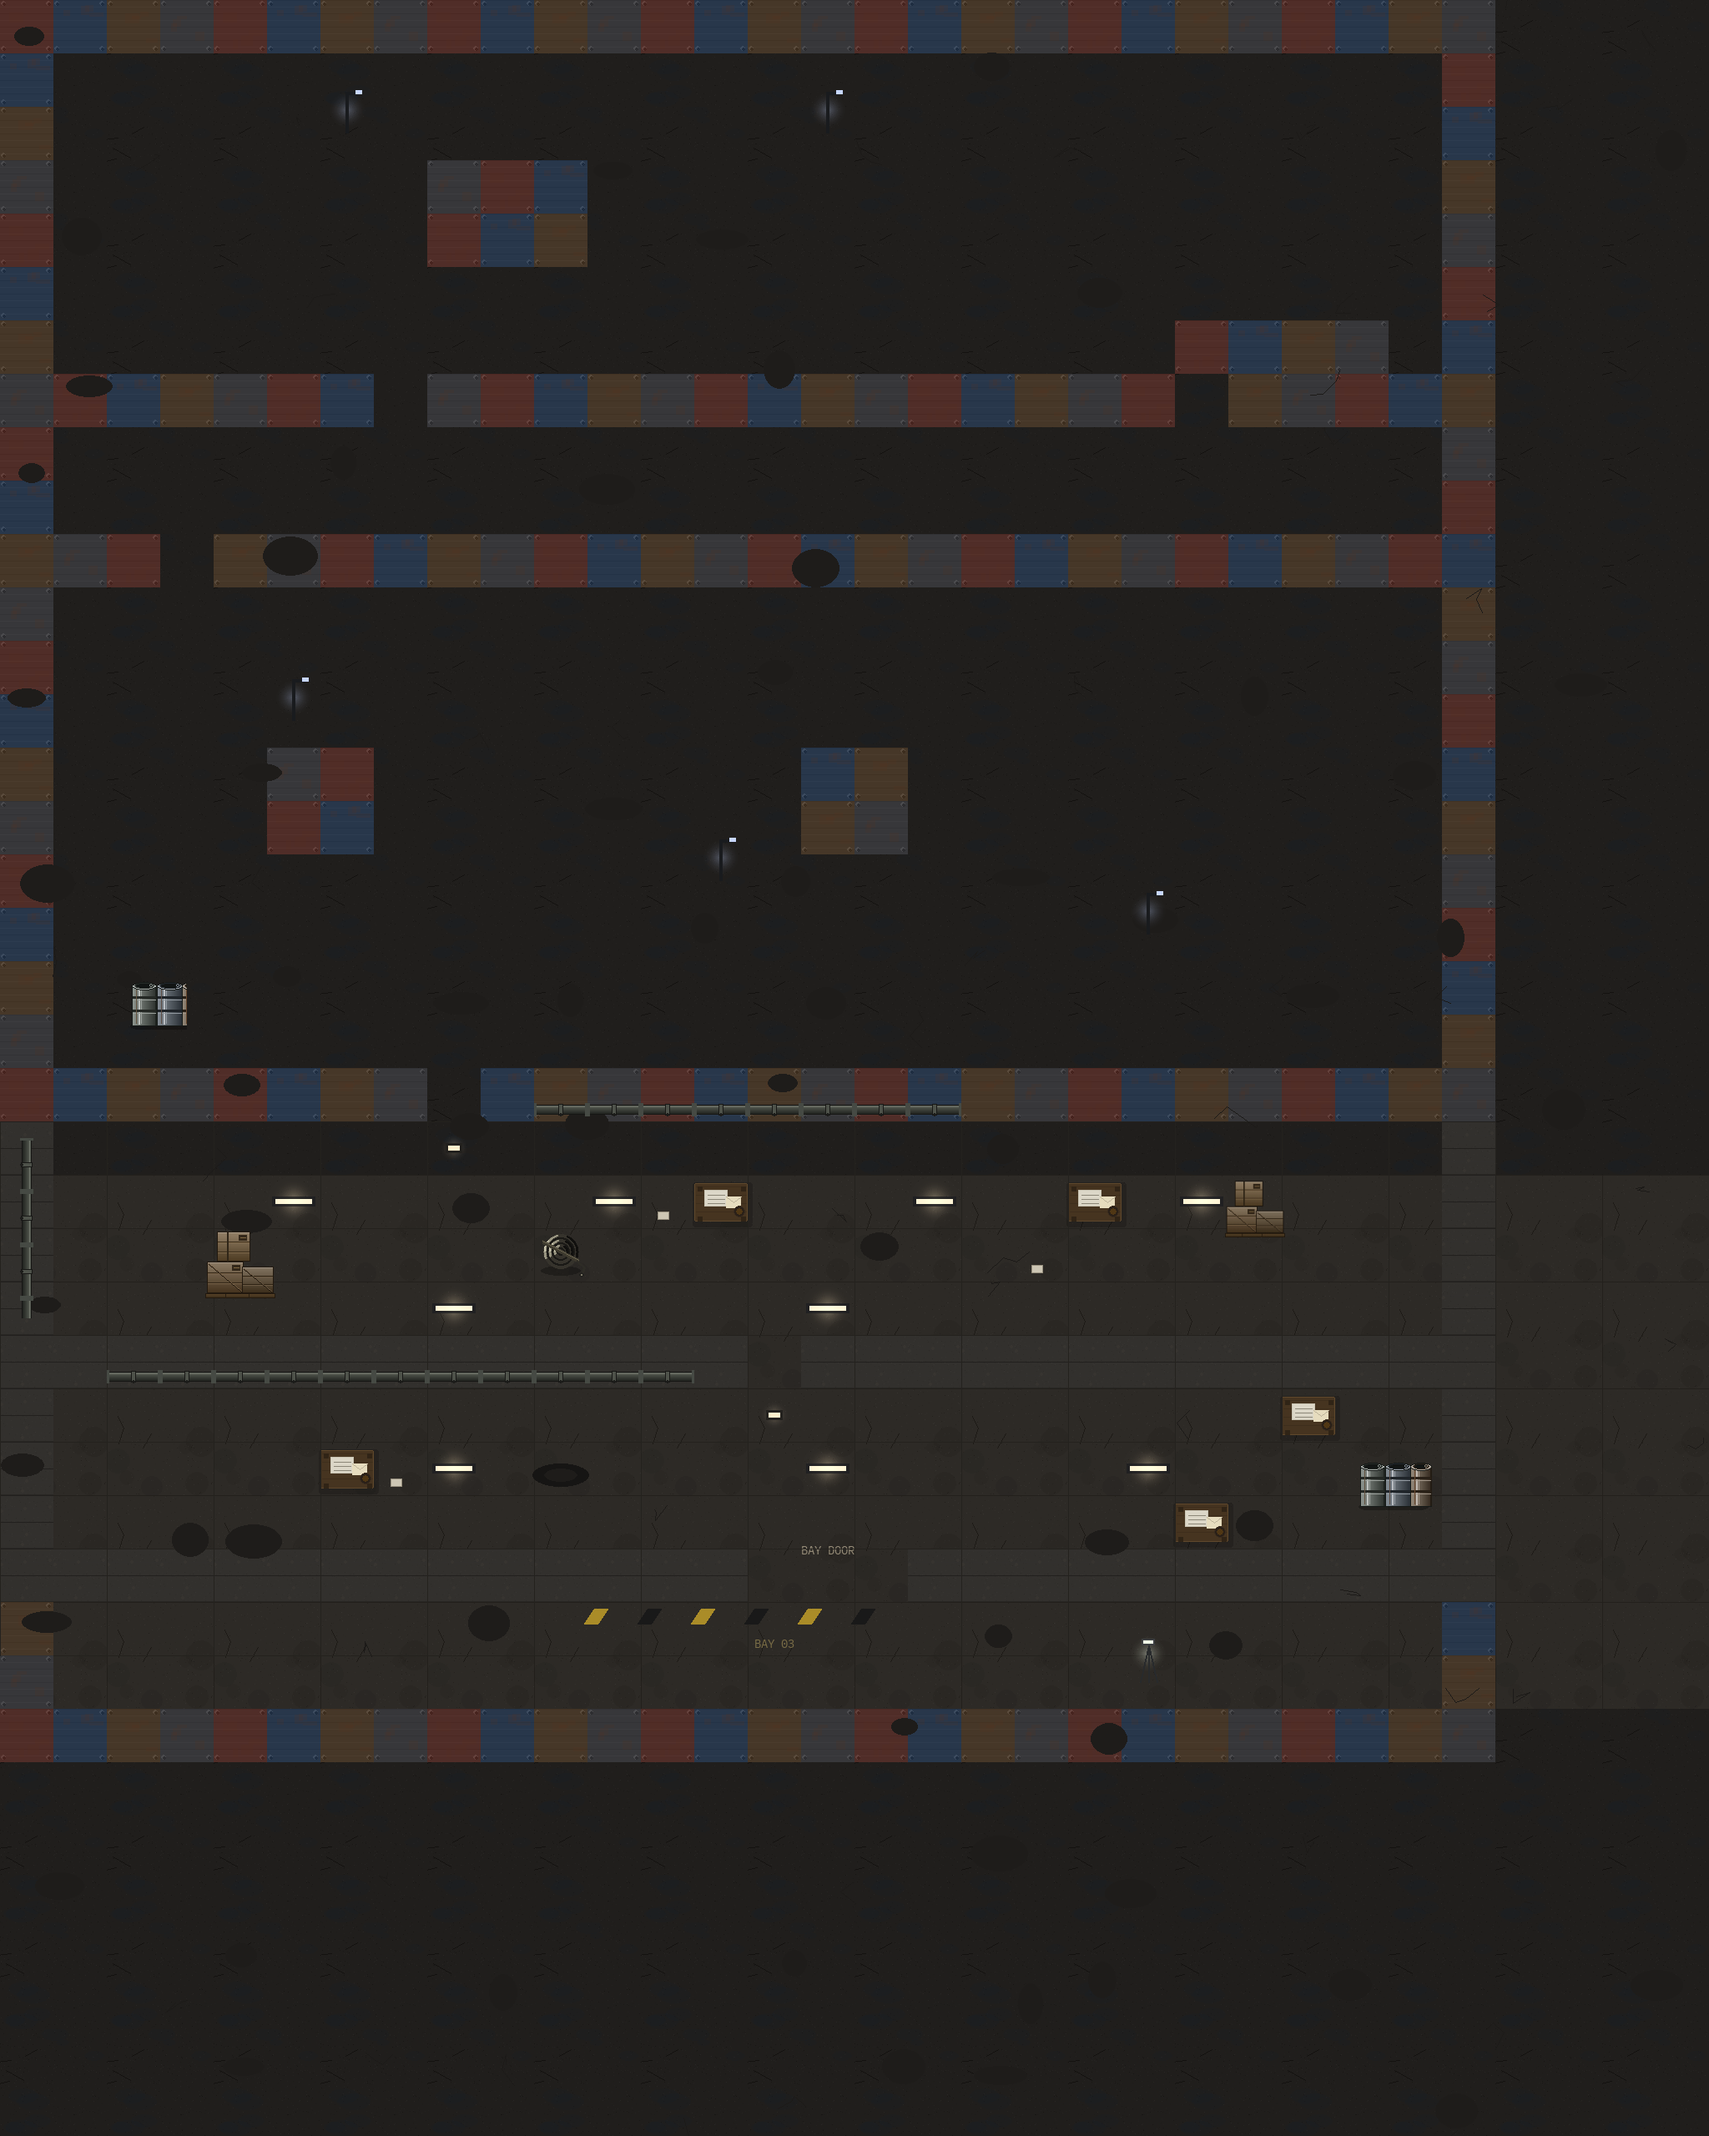
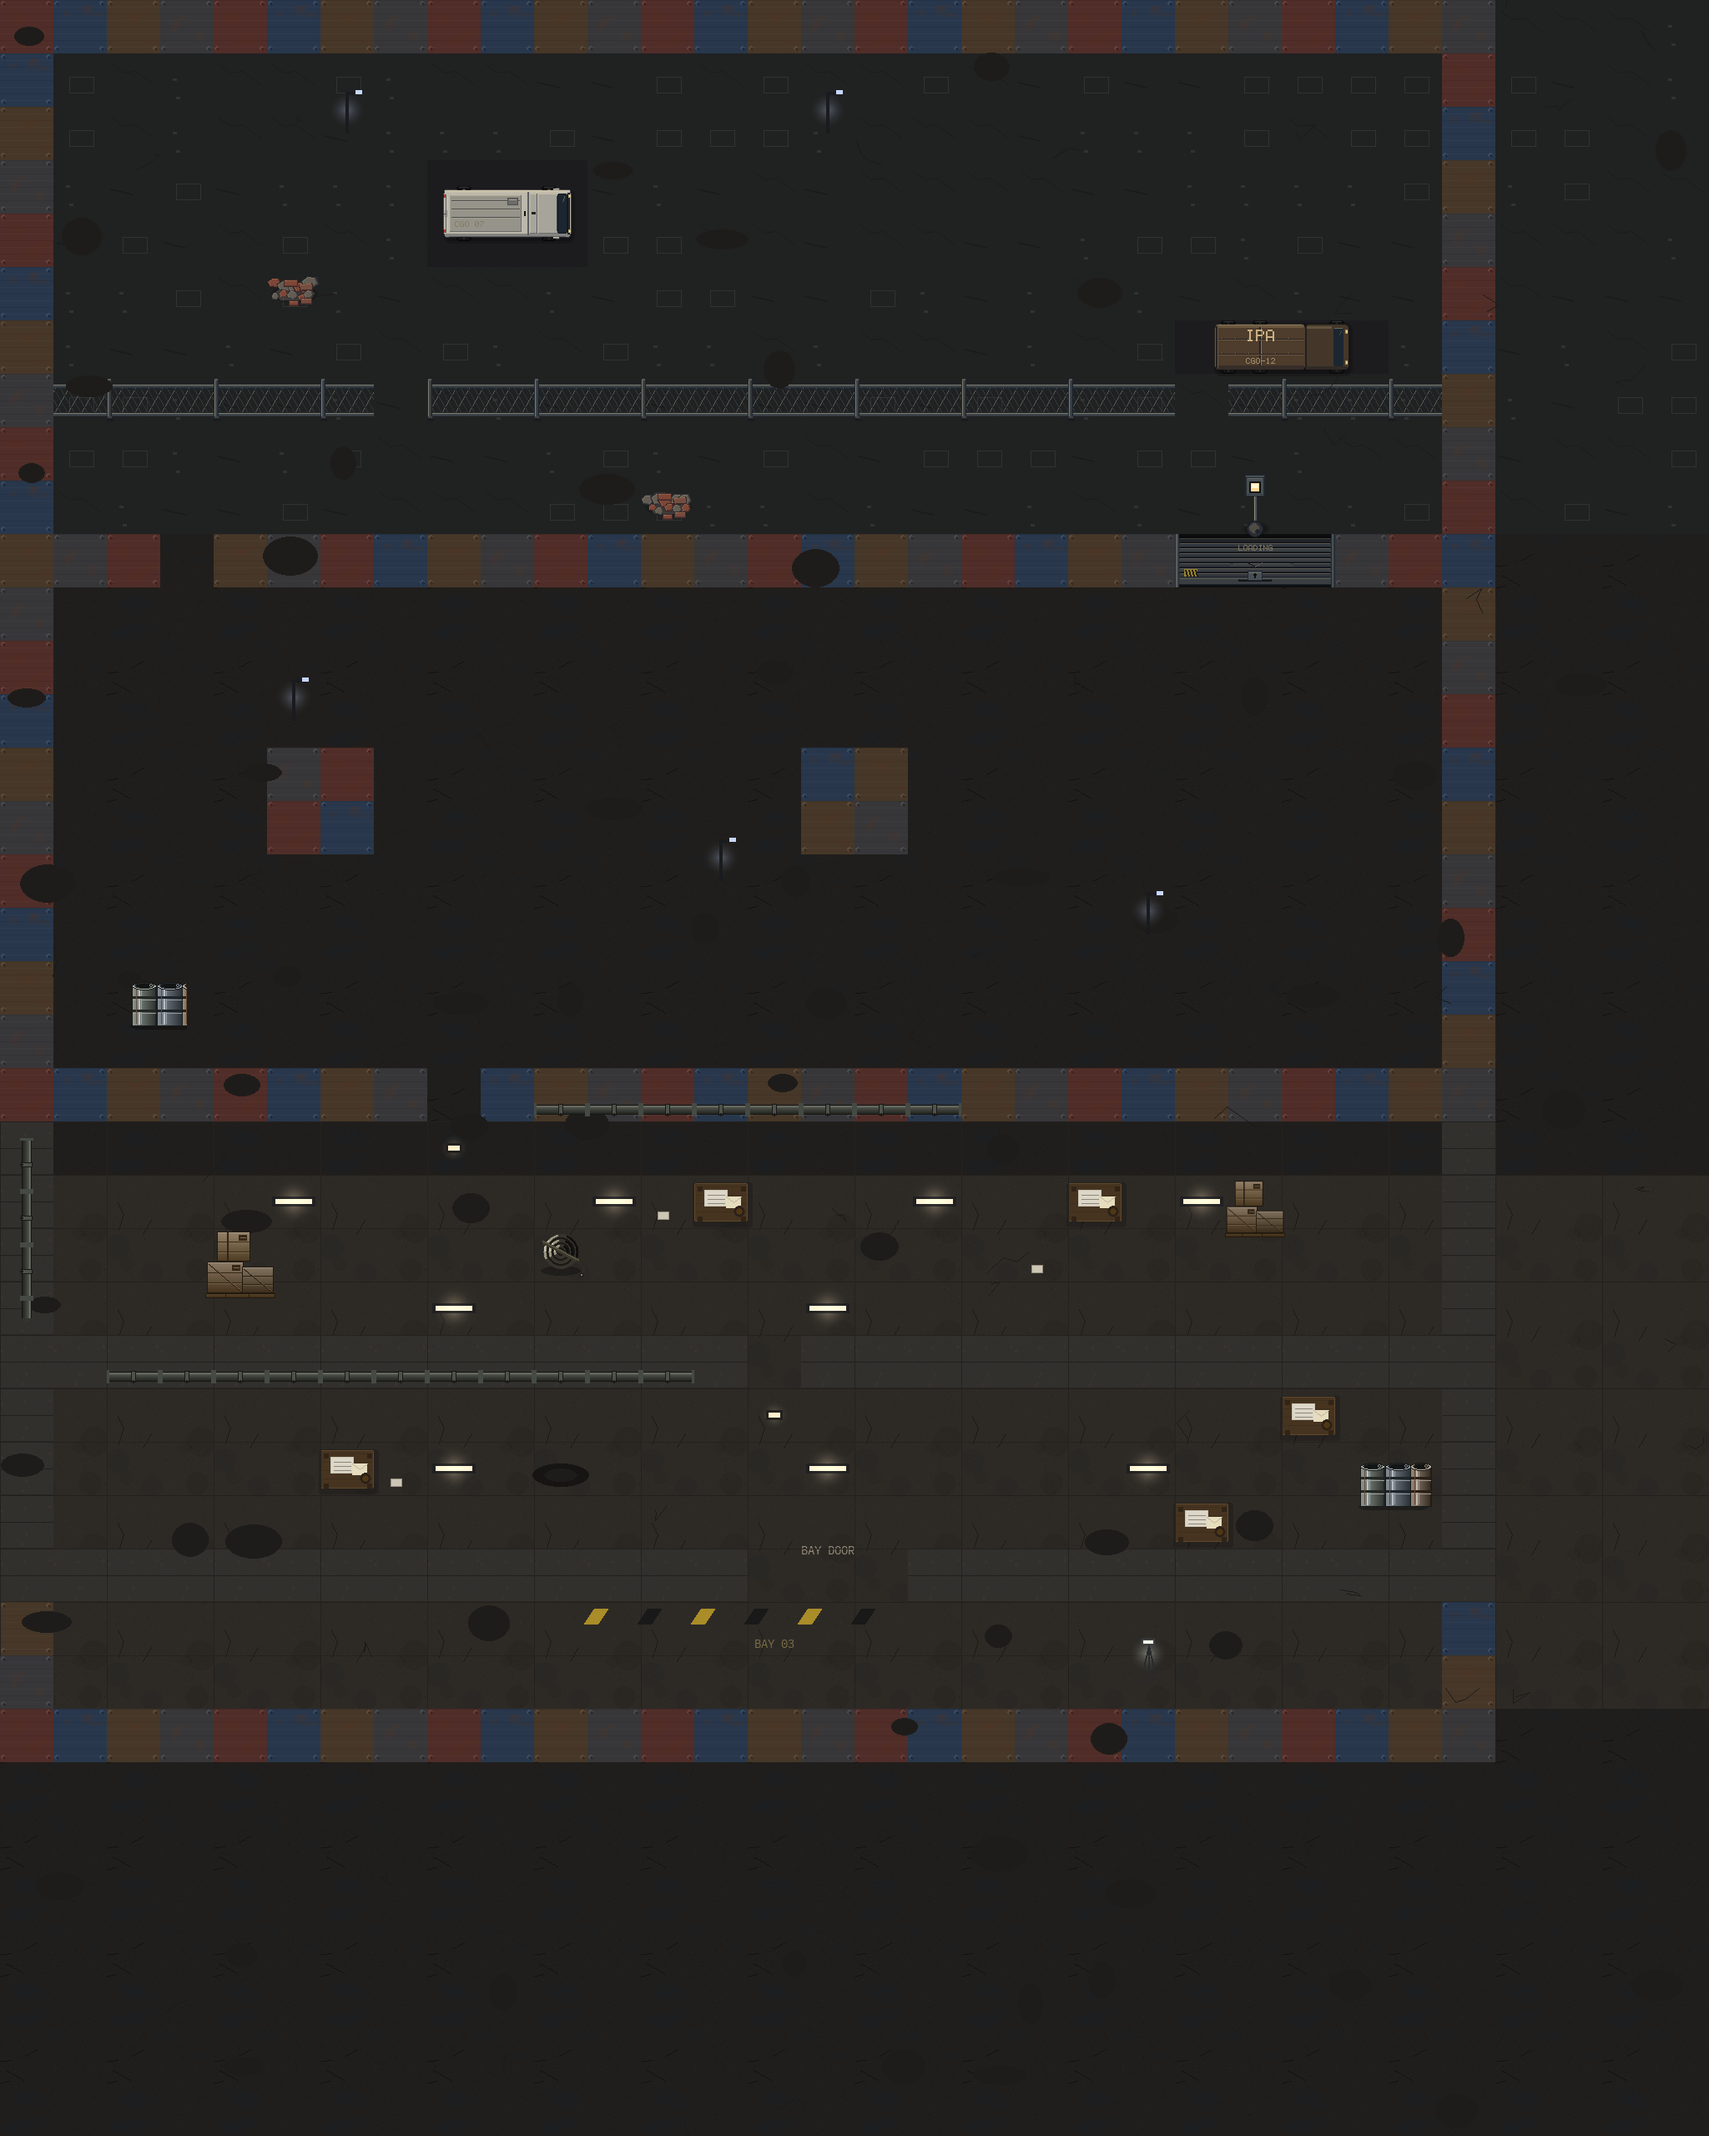
M1 rework WP4b: street band art - asphalt, fence, vehicles, shutter, floodlight, rain

Changed region(s): [[0.25, 0.125, 0.8438, 0.2812], [0.0312, 0.125, 0.2188, 0.2188], [0.25, 0.0625, 0.3438, 0.125]]

diff --git a/src/missions/m1/draw.py b/src/missions/m1/draw.py
@@ -37,10 +37,11 @@ from missions import walking_sim
 from core import artpack, lighting, staticlayer
 from core import render_util
 from core import props as _props
+from core.config import draw_rain as _draw_rain_streaks
 from fx import effects
 from core.camera import update_camera, reset_camera_state, collide_bullet_walls, draw_bullets
 
-from missions.m1.map import _lerp, mission1_map, MAP_W, MAP_H
+from missions.m1.map import _lerp, mission1_map, MAP_W, MAP_H, M1_STREET_ROW
 from missions.m1 import update as _m1_update
 from missions.m1.hotwire import _hotwire_wire_nodes, HOTWIRE_TARGET_PAIRS, HOTWIRE_WIRES
 from engine.core import now_ms as _now_ms, now_s as _now_s  # RPE6 B-001 timebase
@@ -602,8 +603,8 @@ _M1_LAMPS = (
     (21, 17, 150, (190, 210, 255), "sl_c"),
     (6, 2, 150, (190, 210, 255), "sl_d"),
     (15, 2, 150, (190, 210, 255), "sl_e"),
-    # Fire barrel by the shutter - warm.
-    (23, 9, 120, (255, 170, 90), "fb_a"),
+    # Shutter floodlight over the apron - cold white.
+    (23, 9, 120, (225, 235, 255), "fl_a"),
     # Exfil tripod work-light.
     (21, 31, 140, (235, 245, 225), "ex_a"),
 )
@@ -632,12 +633,85 @@ def _push_m1_lights(cam_x, cam_y, t):
                      caster=_m1_solid_world, cam=(cam_x, cam_y), key="baypool")
 
 
+def _m1_street_art():
+    """True when the art pack supplies the street floor (64-px tiles)."""
+    return artpack.enabled() and artpack.tile(".", 0, 0) is not None
+
+
+def _m1_glyph(col, row):
+    if 0 <= row < len(mission1_map) and 0 <= col < len(mission1_map[row]):
+        return mission1_map[row][col]
+    return ""
+
+
+def _blit_m1_street_floor(target, cam_x, cam_y):
+    """Street band rows 0-9: 64-px art-pack floor tiles."""
+    for row in range(max(0, int(cam_y // TILE_SIZE) - 1),
+                     min(M1_STREET_ROW, int((cam_y + HEIGHT) // TILE_SIZE) + 2)):
+        for col in range(int(cam_x // TILE_SIZE) - 1, int((cam_x + WIDTH) // TILE_SIZE) + 2):
+            tile = artpack.tile(".", col, row)
+            if tile is not None:
+                target.blit(tile, (col * TILE_SIZE - cam_x, row * TILE_SIZE - cam_y))
+
+
+# Vehicle blocks of the street band, keyed by (w, h) of the T run.
+_M1_VEHICLE_BLOCKS = {(3, 2): ("spr_m1_street", "van_delivery"), (4, 1): ("spr_vehicles", "ipa_truck")}
+_M1_ASPHALT = (28, 28, 31)
+
+
+def _m1_run_size(col, row, ch):
+    w = h = 1
+    while _m1_glyph(col + w, row) == ch:
+        w += 1
+    while _m1_glyph(col, row + h) == ch:
+        h += 1
+    return w, h
+
+
+def _blit_m1_vehicle_block(target, w, h, x, y):
+    spec = _M1_VEHICLE_BLOCKS.get((w, h))
+    img = artpack.frame(*spec) if spec else None
+    if img is None:
+        return False
+    pygame.draw.rect(target, _M1_ASPHALT, (x, y, w * TILE_SIZE, h * TILE_SIZE))
+    target.blit(img, (x + (w * TILE_SIZE - img.get_width()) // 2,
+                      y + (h * TILE_SIZE - img.get_height()) // 2))
+    return True
+
+
+def _draw_m1_street_walls(target, cam_x, cam_y):
+    """Street-band fence posts/mesh, shutter and vehicle blocks from the art pack.
+    Returns the wall cells it painted; the container pass skips them."""
+    done = set()
+    if not artpack.enabled():
+        return done
+    for row in range(M1_STREET_ROW + 1):
+        for col in range(MAP_W):
+            ch = _m1_glyph(col, row)
+            x, y = col * TILE_SIZE - cam_x, row * TILE_SIZE - cam_y
+            if ch == "f":
+                key = "fence_post" if col % 2 == 0 else "fence_mesh"
+                if artpack.blit_frame(target, "spr_m1_street", key, (x, y)):
+                    done.add((col, row))
+            elif ch in ("S", "T") and _m1_glyph(col - 1, row) != ch and _m1_glyph(col, row - 1) != ch:
+                w, h = _m1_run_size(col, row, ch)
+                if ch == "S":
+                    ok = (w, h) == (3, 1) and artpack.blit_frame(target, "spr_m1_street", "shutter_3w", (x, y))
+                else:
+                    ok = _blit_m1_vehicle_block(target, w, h, x, y)
+                if ok:
+                    done.update((col + i, row + j) for i in range(w) for j in range(h))
+    return done
+
+
 def _render_m1_bg(target, cam_x, cam_y):
     """Static tilemap pass: floor grid, container/warehouse walls, desk bodies."""
     start_tx = int(cam_x // FLOOR_TILE_SIZE) * FLOOR_TILE_SIZE
     start_ty = int(cam_y // FLOOR_TILE_SIZE) * FLOOR_TILE_SIZE
     warehouse_y_start = 21 * TILE_SIZE
     warehouse_y_end = 30 * TILE_SIZE
+    street_art = _m1_street_art()
+    street_end = M1_STREET_ROW * TILE_SIZE
     for tx in range(
         start_tx - FLOOR_TILE_SIZE,
         int(cam_x + WIDTH + FLOOR_TILE_SIZE * 2),
@@ -648,12 +722,17 @@ def _render_m1_bg(target, cam_x, cam_y):
             int(cam_y + HEIGHT + FLOOR_TILE_SIZE * 2),
             FLOOR_TILE_SIZE,
         ):
+            if street_art and ty + FLOOR_TILE_SIZE <= street_end:
+                continue
             tile = (
                 FLOOR_TILE
                 if (warehouse_y_start <= ty <= warehouse_y_end)
                 else SLUM_FLOOR
             )
             target.blit(tile, (tx - cam_x, ty - cam_y))
+    if street_art:
+        _blit_m1_street_floor(target, cam_x, cam_y)
+    handled = _draw_m1_street_walls(target, cam_x, cam_y)
     container_tiles = [
         CONTAINER_TILE_RED,
         CONTAINER_TILE_BLUE,
@@ -662,9 +741,11 @@ def _render_m1_bg(target, cam_x, cam_y):
     ]
     for wall in STATE.walls:
         dr = pygame.Rect(wall.x - cam_x, wall.y - cam_y, TILE_SIZE, TILE_SIZE)
-        target.blit(wall_shadow, (dr.x - 4, dr.y - 4))
         col = wall.x // TILE_SIZE
         row = wall.y // TILE_SIZE
+        if (col, row) in handled:
+            continue
+        target.blit(wall_shadow, (dr.x - 4, dr.y - 4))
         if (col, row) in STATE.warehouse_walls_set:
             target.blit(WAREHOUSE_WALL, (dr.x, dr.y))
         else:
@@ -892,6 +973,12 @@ def _draw_m1_static_dressing(target, cam_x, cam_y):
                     prev = (cxp, cyp)
                 else:
                     prev = None
+    # ── Street rubble ──
+    for (rtx, rty), key in (((5, 5), "rubble_0"), ((12, 9), "rubble_1")):
+        rx = rtx * TILE_SIZE + TILE_SIZE // 2 - cam_x
+        ry = rty * TILE_SIZE + TILE_SIZE // 2 - cam_y
+        if render_util.screen_visible(rx - 40, ry - 40, 80, 80):
+            artpack.blit_frame(target, "spr_m1_street", key, (rx, ry))
     # ── Lamp fixtures + floor light pools ──
     for tx, ty, _r, _col, key in _M1_LAMPS:
         fam = key.split("_")[0]
@@ -904,6 +991,8 @@ def _draw_m1_static_dressing(target, cam_x, cam_y):
             render_util.add_radial(target, sx, sy, 34, (255, 225, 175), 24)
         elif fam == "sl":
             _draw_m1_street_post(target, sx, sy)
+        elif fam == "fl":
+            artpack.blit_frame(target, "spr_m1_street", "lamp_post", (sx, sy + 26))
         elif fam == "gate":
             _draw_m1_bulkhead(target, sx, sy)
         elif fam == "ex":
@@ -1666,6 +1755,17 @@ def _composite_m1_lighting(surface):
     lighting.buffer().composite(surface, _now_s())
 
 
+def _submit_m1_rain(q, fcy):
+    """Rain over the street band only (rows 0-9); nothing once the band is off-screen."""
+    drops = getattr(STATE, "rain_drops", None)
+    clip_h = min(HEIGHT, M1_STREET_ROW * TILE_SIZE - fcy)
+    if not drops or clip_h <= 0:
+        return
+    def paint(s):
+        _draw_rain_streaks(s.subsurface((0, 0, WIDTH, clip_h)), drops)
+    q.submit(_UiPassDraw(paint, "m1.rain"), _L.UI, sort_key=-1)
+
+
 def submit_frame(q, fcx, fcy):
     """Submit one Mission 1 frame (draw order is the legacy painter's, ADR-017)."""
     fcx, fcy = round(fcx), round(fcy)
@@ -1691,6 +1791,7 @@ def submit_frame(q, fcx, fcy):
                  _L.FX_WORLD, sort_key=(5, 0))
     ch_x, ch_y = get_scaled_mouse()
     _submit_overlay(q, fcx, fcy, ch_x, ch_y)
+    _submit_m1_rain(q, fcy)
     q.submit(_UiPassDraw(lambda s: _draw_m1_hud(s, fcx, fcy), "m1.hud"), _L.UI, sort_key=0)
     # ── Death animation: camera tilt ──
     # Apply at the very end of the frame so the entire rendered scene

diff --git a/tools/smoke_test.py b/tools/smoke_test.py
@@ -2971,6 +2971,41 @@ def check_sprite_pipeline():
     assert committed == a, "assets/art sheets are stale - run tools/build_all_sprites.py"
 
 
+def check_m1_street_art():
+    """WP4b: the M1 street band resolves its art-pack frames, the fence/shutter/vehicle
+    cells are the ones painted, and M1 rain submits only while the street is on-screen."""
+    from core import artpack
+    from core.state import STATE
+    from missions.m1 import draw as D
+    prev_art = os.environ.pop("ACA_ART", None)
+    prev_rain = getattr(STATE, "rain_drops", None)
+    try:
+        artpack.rebuild()
+        for key in ("fence_post", "fence_mesh", "shutter_3w", "van_delivery", "rubble_0", "lamp_post"):
+            assert artpack.frame("spr_m1_street", key) is not None, key
+        assert artpack.frame("spr_vehicles", "ipa_truck") is not None
+        assert D._m1_street_art(), "street floor tiles missing"
+        surf = pygame.Surface((config.WIDTH, config.HEIGHT))
+        done = D._draw_m1_street_walls(surf, 0, 0)
+        assert {(22, 10), (23, 10), (24, 10), (8, 3), (10, 4), (22, 6), (25, 6), (6, 7)} <= done,             "street walls not painted from the art pack"
+        class _Queue:
+            n = 0
+
+            def submit(self, *_a, **_k):
+                self.n += 1
+        STATE.rain_drops = [(10, 10, 12)]
+        q = _Queue()
+        D._submit_m1_rain(q, 2000)
+        assert q.n == 0, "M1 rain drawn with the street off-screen"
+        D._submit_m1_rain(q, 0)
+        assert q.n == 1, "M1 street rain not submitted"
+    finally:
+        STATE.rain_drops = prev_rain
+        if prev_art is not None:
+            os.environ["ACA_ART"] = prev_art
+        artpack.rebuild()
+
+
 def check_depot_restage_timing():
     """Polish Task 2: the KRAP depot beats are paced to their typed lines (no
     frozen frame while text is still coming in), the change shot's min_ms
@@ -10086,7 +10121,8 @@ def main():
                      ("voice_manifest_resolves", check_voice_manifest_resolves),
                      ("radio_widget_headless", check_radio_widget_headless),
                          ("depot_restage_timing", check_depot_restage_timing),
-                      ("sprite_pipeline", check_sprite_pipeline)]:
+                      ("sprite_pipeline", check_sprite_pipeline),
+                      ("m1_street_art", check_m1_street_art)]:
         ok = run_check(name, fn) and ok
 
     print("\n=== Mission 6 checks ===")

diff --git a/src/missions/m1/map.py b/src/missions/m1/map.py
@@ -91,7 +91,7 @@ M1_TRIGGERS = [
 M1_LIGHTS = [
     {"id": "street_lamp_a", "kind": "street_lamp", "tile": [6, 2], "radius": 150, "color": [190, 210, 255]},
     {"id": "street_lamp_b", "kind": "street_lamp", "tile": [15, 2], "radius": 150, "color": [190, 210, 255]},
-    {"id": "fire_barrel", "kind": "fire_barrel", "tile": [23, 9], "radius": 120, "color": [255, 170, 90]},
+    {"id": "shutter_floodlight", "kind": "floodlight", "tile": [23, 9], "radius": 120, "color": [225, 235, 255]},
 ]
 
 # Street band rows 0-9 and the stockroom's north wall row 10. Glyphs: C wall,

diff --git a/src/missions/m1/main.py b/src/missions/m1/main.py
@@ -58,6 +58,7 @@ def start_mission(preserve_timer=False):
     STATE.request_escape_cutscene = False
     STATE.notebook_collected = False
     STATE.exfil_reached = False
+    STATE.rain_drops = list(rain_drops)
     STATE.mission_phase = "infiltrate"
     STATE.firefight_triggered = False
     STATE.volkov_escape_timer = 0

diff --git a/src/game/art/m1/world_static.py b/src/game/art/m1/world_static.py
@@ -7,7 +7,7 @@ from game.art._layers import render_callback_layer, scaled
 VARIANTS = 1
 VARIANT_NAMES = ("default",)
 ORIGIN = (0, 0)
-BAKE_DEPS = ("missions.m1.draw",)
+BAKE_DEPS = ("missions.m1.draw", "missions.m1.map")
 BAKED_ONLY = True
 
 
